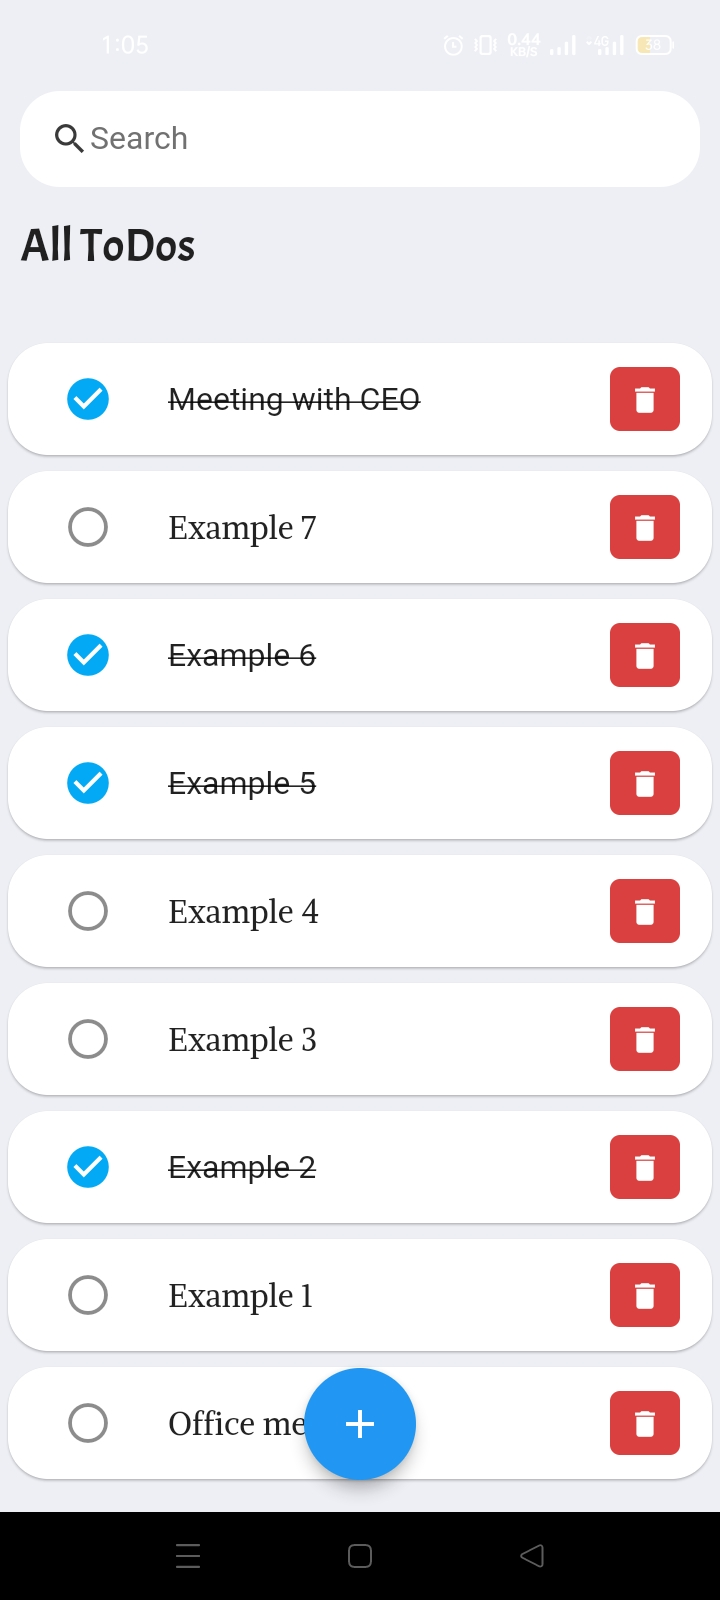
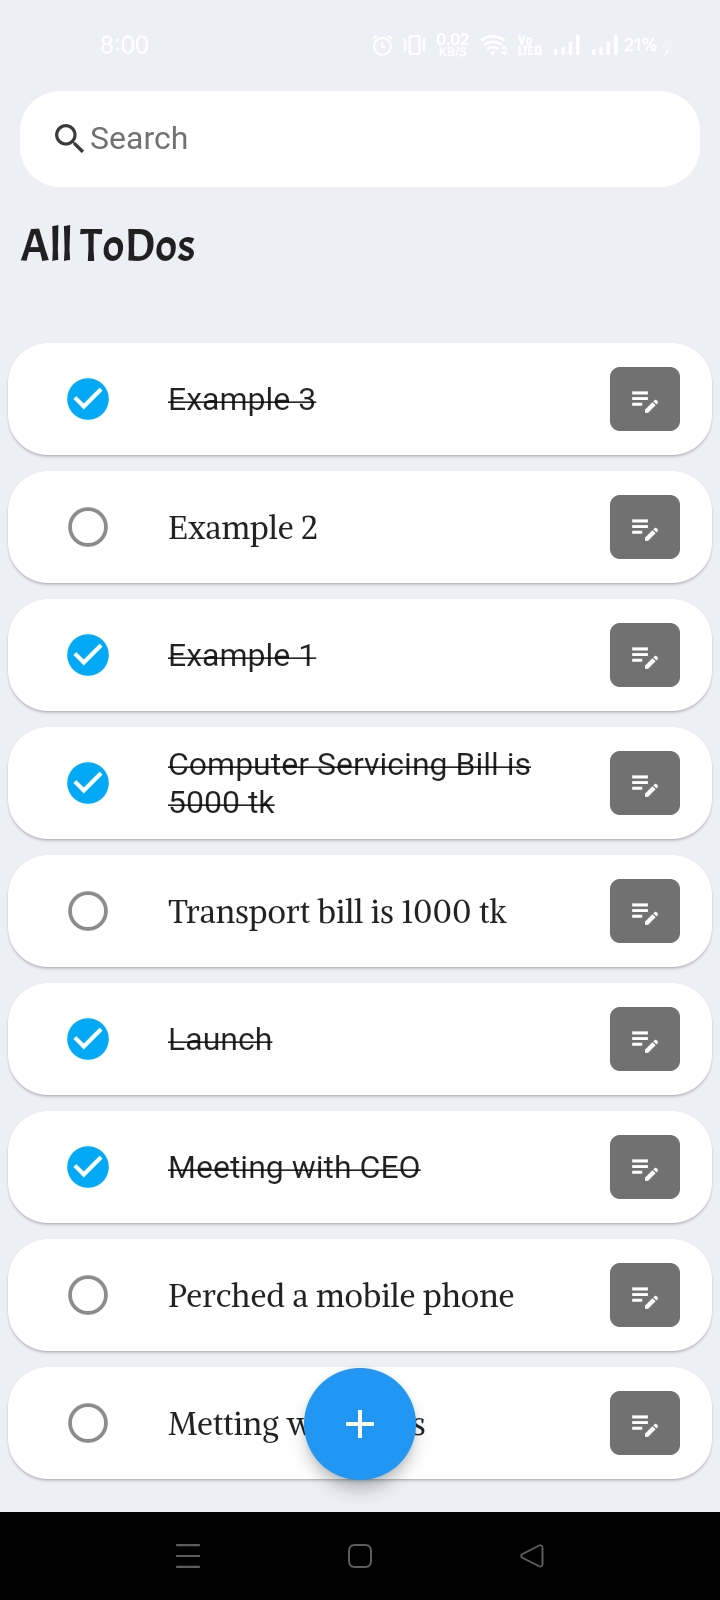
Done Todos App

diff --git a/lib/screen/todo_details.dart b/lib/screen/todo_details.dart
@@ -4,6 +4,7 @@ import 'package:google_fonts/google_fonts.dart';
 import 'package:todo/constants/colors.dart';
 import 'package:todo/controller/todo_controller.dart';
 import 'package:todo/model/todo_model.dart';
+import 'package:todo/screen/home_screen.dart';
 
 class TodoDetails extends StatefulWidget {
   const TodoDetails({super.key, required this.todoModel, required this.index});
@@ -50,8 +51,15 @@ class _TodoDetailsState extends State<TodoDetails> {
       ),
       child: Column(children: [
         Row(
-          mainAxisAlignment: MainAxisAlignment.spaceBetween,
-          children: [statusButton(), editButton()],
+          mainAxisAlignment: MainAxisAlignment.start,
+          children: [
+            SizedBox(width: 15),
+            statusButton(),
+            SizedBox(width: 10),
+            editButton(),
+            SizedBox(width: 10),
+            deleteButton()
+          ],
         ),
         todoValue()
       ]),
@@ -59,67 +67,101 @@ class _TodoDetailsState extends State<TodoDetails> {
   }
 
   Widget statusButton() {
-    return Padding(
-      padding: const EdgeInsets.only(left: 15, bottom: 5, top: 15),
-      child: TextButton(
-        style: TextButton.styleFrom(
-            backgroundColor: Colors.green.shade800,
-            foregroundColor: Colors.white),
-        child: Text("Change Status"),
-        onPressed: () => todoController.todoList[widget.index].status == 1
-            ? todoController.changeStatus(widget.todoModel.id, false)
-            : todoController.changeStatus(widget.todoModel.id, true),
-      ),
-    );
+    return Container(
+        padding: EdgeInsets.all(0),
+        height: 35,
+        width: 35,
+        decoration: BoxDecoration(
+          color: Colors.grey.shade800,
+          borderRadius: BorderRadius.circular(5),
+        ),
+        child: IconButton(
+          color: Colors.white,
+          icon: Icon(Icons.published_with_changes_outlined),
+          iconSize: 18,
+          onPressed: () => todoController.todoList[widget.index].status == 1
+              ? todoController.changeStatus(widget.todoModel.id, false)
+              : todoController.changeStatus(widget.todoModel.id, true),
+        ));
   }
 
   Widget editButton() {
-    return Padding(
-      padding: const EdgeInsets.only(right: 15, bottom: 5, top: 15),
-      child: TextButton(
-        style: TextButton.styleFrom(
-            backgroundColor: Colors.blueGrey.shade600,
-            foregroundColor: Colors.white),
-        child: Text("Edit"),
-        onPressed: () => todoEditDialog(),
-      ),
-    );
+    return Container(
+        padding: EdgeInsets.all(0),
+        margin: EdgeInsets.symmetric(vertical: 12),
+        height: 35,
+        width: 35,
+        decoration: BoxDecoration(
+          color: Colors.green,
+          borderRadius: BorderRadius.circular(5),
+        ),
+        child: IconButton(
+          color: Colors.white,
+          icon: Icon(Icons.edit),
+          iconSize: 18,
+          onPressed: () => todoEditDialog(),
+        ));
+  }
+
+  Widget deleteButton() {
+    return Container(
+        padding: EdgeInsets.all(0),
+        margin: EdgeInsets.symmetric(vertical: 12),
+        height: 35,
+        width: 35,
+        decoration: BoxDecoration(
+          color: mRed,
+          borderRadius: BorderRadius.circular(5),
+        ),
+        child: IconButton(
+          color: Colors.white,
+          icon: Icon(
+            Icons.delete,
+          ),
+          iconSize: 18,
+          onPressed: () {
+            todoController.deleteTodo(widget.todoModel.id);
+            Get.back();
+          },
+        ));
   }
 
   Widget todoValue() {
-    return Obx(() => Column(
-          crossAxisAlignment: CrossAxisAlignment.start,
-          children: [
-            ListTile(
-              title: Text(
-                todoController.todoList[widget.index].title.toString(),
-                style: GoogleFonts.alike(
-                    textStyle: Theme.of(context).textTheme.titleMedium),
+    return Obx(() => todoController.todoList.isNotEmpty
+        ? Column(
+            crossAxisAlignment: CrossAxisAlignment.start,
+            children: [
+              ListTile(
+                title: Text(
+                  todoController.todoList[widget.index].title.toString(),
+                  style: GoogleFonts.alike(
+                      textStyle: Theme.of(context).textTheme.titleMedium),
+                ),
+                subtitle: Text(
+                    todoController.todoList[widget.index].createAt.toString(),
+                    style: GoogleFonts.alike()),
               ),
-              subtitle: Text(
-                  todoController.todoList[widget.index].createAt.toString(),
-                  style: GoogleFonts.alike()),
-            ),
 
-            // Status
-            todoController.todoList[widget.index].status == 1
-                ? Padding(
-                    padding: const EdgeInsets.only(left: 15),
-                    child: Text(
-                      "Completed",
-                      style:
-                          GoogleFonts.acme(fontSize: 18, color: Colors.green),
-                    ),
-                  )
-                : Padding(
-                    padding: const EdgeInsets.only(left: 15),
-                    child: Text(
-                      "Incompled",
-                      style: GoogleFonts.acme(fontSize: 18, color: mGrey),
-                    ),
-                  )
-          ],
-        ));
+              // Status
+              todoController.todoList[widget.index].status == 1
+                  ? Padding(
+                      padding: const EdgeInsets.only(left: 15),
+                      child: Text(
+                        "Completed",
+                        style:
+                            GoogleFonts.acme(fontSize: 18, color: Colors.green),
+                      ),
+                    )
+                  : Padding(
+                      padding: const EdgeInsets.only(left: 15),
+                      child: Text(
+                        "Incompleted",
+                        style: GoogleFonts.acme(fontSize: 18, color: mGrey),
+                      ),
+                    )
+            ],
+          )
+        : Text("Loading..."));
   }
 
   Future todoEditDialog() => showDialog(

diff --git a/lib/screen/home_screen.dart b/lib/screen/home_screen.dart
@@ -141,14 +141,6 @@ class _HomeScreenState extends State<HomeScreen> {
               shape: RoundedRectangleBorder(
                   borderRadius: BorderRadius.circular(20)),
               child: ListTile(
-                //Todo details page
-                onTap: () {
-                  Get.to(TodoDetails(
-                    todoModel: todoModel,
-                    index: index,
-                  ));
-                },
-
                 //todo status
                 leading: changeStatus(todoModel, index),
 
@@ -165,7 +157,7 @@ class _HomeScreenState extends State<HomeScreen> {
                             textStyle: Theme.of(context).textTheme.titleMedium),
                       ),
 
-                trailing: deleteButton(todoModel.id),
+                trailing: detailsButton(todoModel, index),
               ),
             );
           },
@@ -190,21 +182,24 @@ class _HomeScreenState extends State<HomeScreen> {
           );
   }
 
-  Widget deleteButton(int? todoId) {
+  Widget detailsButton(TodoModel todoModel, index) {
     return Container(
         padding: EdgeInsets.all(0),
         margin: EdgeInsets.symmetric(vertical: 12),
         height: 35,
         width: 35,
         decoration: BoxDecoration(
-          color: mRed,
+          color: mGrey,
           borderRadius: BorderRadius.circular(5),
         ),
         child: IconButton(
           color: Colors.white,
-          icon: Icon(Icons.delete),
+          icon: Icon(Icons.edit_note),
           iconSize: 17,
-          onPressed: () => todoController.deleteTodo(todoId),
+          onPressed: () => Get.to(TodoDetails(
+            todoModel: todoModel,
+            index: index,
+          )),
         ));
   }
 }
